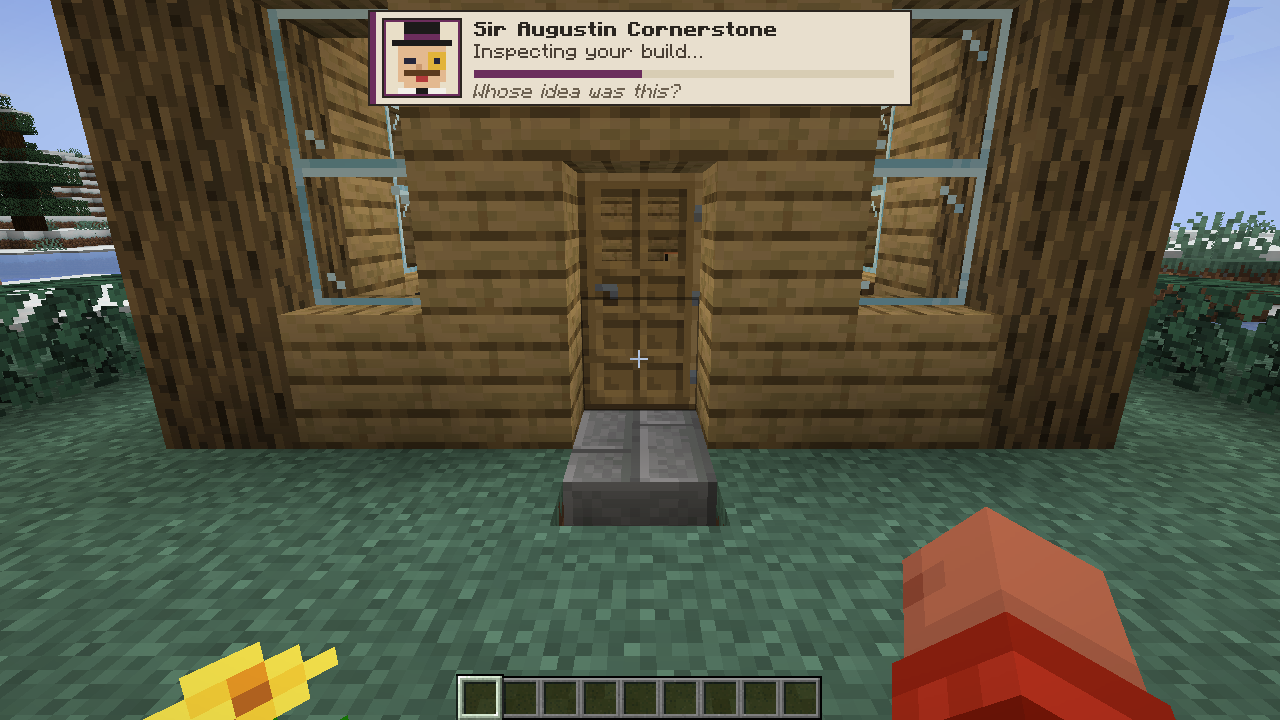
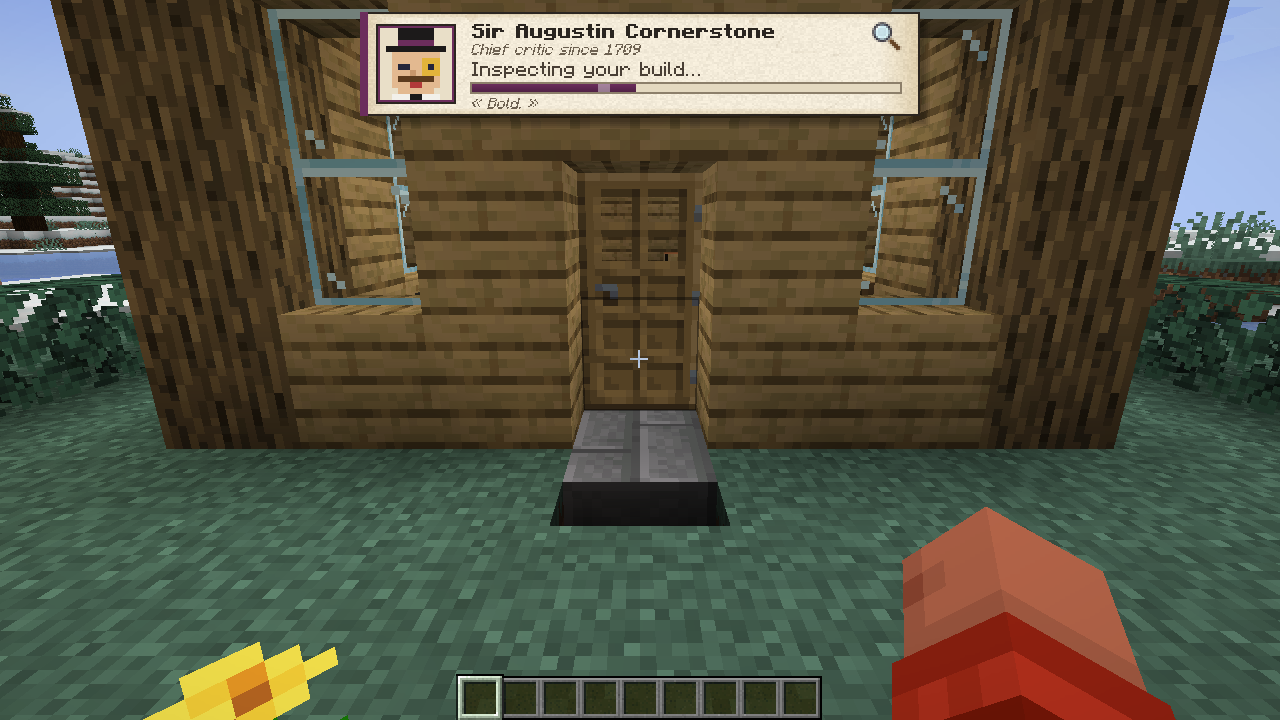
Mètre de chantier : estimation sans chevauchement, pas de point faible quand tout va bien ; nouvelles captures
Claude-Session: https://claude.ai/code/session_0174dF8Hh6BqE2Hp9L2rVVfF

Changed region(s): [[0.2812, 0.0, 0.75, 0.1833], [0.4062, 0.6722, 0.5938, 0.7333]]

diff --git a/src/main/java/com/starchitect/client/Gauge.java b/src/main/java/com/starchitect/client/Gauge.java
@@ -95,7 +95,11 @@ public final class Gauge {
         int cy = y + 24;
         Gfx.stars(g, x + 6, cy, 10, scoring.stars, -1, -1);
         Component est = Component.translatable("starchitect.gauge.estimate", scoring.total);
-        g.drawString(f, est, x + w - 6 - f.width(est), cy + 1, critic.color, false);
+        g.pose().pushPose();
+        g.pose().translate(x + w - 6 - f.width(est) * 0.75f, cy + 2, 0);
+        g.pose().scale(0.75f, 0.75f, 1f);
+        g.drawString(f, est, 0, 0, critic.color, false);
+        g.pose().popPose();
         cy += 14;
         Criterion weakest = Criterion.PALETTE;
         for (Criterion c : Criterion.values()) {
@@ -113,11 +117,12 @@ public final class Gauge {
             cy += 8;
         }
         cy += 3;
-        Component weak = Component.translatable("starchitect.gauge.weak", Component.translatable(weakest.key()).withStyle(ChatFormatting.BOLD));
+        Component weak = scoring.score(weakest) >= 8 ? Component.translatable("starchitect.tip.none").withStyle(ChatFormatting.ITALIC)
+            : Component.translatable("starchitect.gauge.weak", Component.translatable(weakest.key()).withStyle(ChatFormatting.BOLD));
         g.pose().pushPose();
         g.pose().translate(x + 6, cy, 0);
         g.pose().scale(0.75f, 0.75f, 1f);
-        g.drawString(f, weak, 0, 0, 0xFFB23A3A, false);
+        g.drawString(f, f.split(weak, (int) ((w - 12) / 0.75f)).get(0), 0, 0, scoring.score(weakest) >= 8 ? 0xFF3E8E41 : 0xFFB23A3A, false);
         g.drawString(f, Texts.critic(critic).copy().withStyle(ChatFormatting.ITALIC), 0, 11, Gfx.GREY, false);
         g.pose().popPose();
     }
